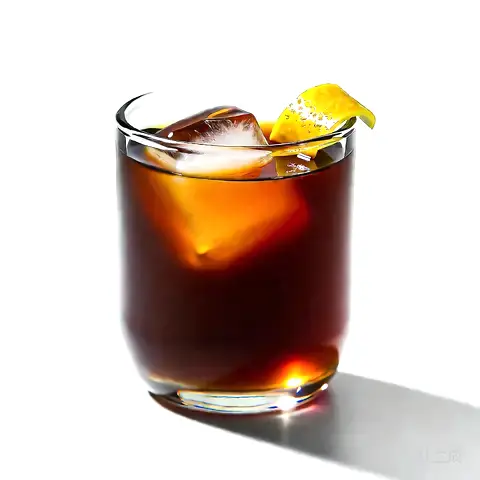
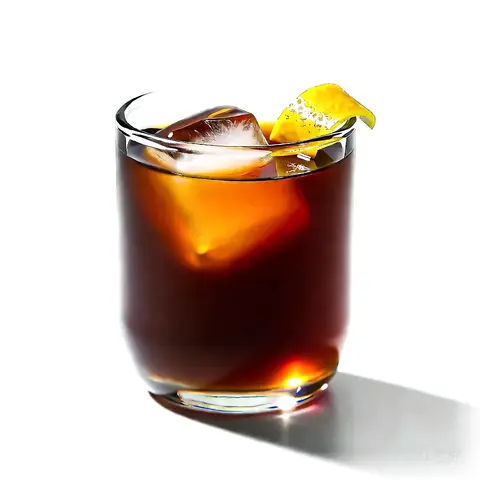
fix: blend the plinth crossfade, fade photograph rims, and tighten the UI
- The home plinth and the waiting screen multiplied the photograph inside a
  fading layer, so every crossfade showed the drink on a white square. The
  layer that carries the opacity now carries the blend.
- Photographs whose shadow or reflection ran off the picture ended in a hard
  line on the field. The rim is faded to white when an image is stored, and
  the three seed pictures that had it are repaired.
- The six moods sit in one row on desktop, so the first question fits a screen.
- Chinese titles break at punctuation and get the line height they need.
- The selected mood chip keeps a visible swatch; the reason and tools column
  stays in view beside a long recipe.

diff --git a/lib/image-levels.ts b/lib/image-levels.ts
@@ -1,11 +1,50 @@
 import sharp from "sharp";
 
+/** How much of each side is faded out, as a share of that side. */
+const EDGE = 0.06;
+
 /**
- * Lifts near-white to white. Drinks are shot on white and laid on coloured
- * fields with `mix-blend-mode: multiply`, where any grey left in the backdrop
- * shows as a band. Generated backdrops land around #e0-#f0; a gain of 1.12
- * clips those to white and barely moves the colours of the drink.
+ * A white frame, opaque at the rim and clear a little way in. A cast shadow or
+ * a reflection that runs off the photograph would otherwise end in a straight
+ * line where the picture stops, visible once it is laid on a coloured field.
  */
-export function whitenBackground(source: Buffer): Promise<Buffer> {
-  return sharp(source).linear(1.12, 0).png().toBuffer();
+function edgeFade(width: number, height: number): Buffer {
+  const side = (id: string, x1: number, y1: number, x2: number, y2: number, rect: string) =>
+    `<linearGradient id="${id}" x1="${x1}" y1="${y1}" x2="${x2}" y2="${y2}">` +
+    `<stop offset="0" stop-color="#fff"/><stop offset="1" stop-color="#fff" stop-opacity="0"/></linearGradient>` +
+    `<rect ${rect} fill="url(#${id})"/>`;
+  const w = Math.round(width * EDGE);
+  const h = Math.round(height * EDGE);
+
+  return Buffer.from(
+    `<svg xmlns="http://www.w3.org/2000/svg" width="${width}" height="${height}">` +
+      side("l", 0, 0, 1, 0, `x="0" y="0" width="${w}" height="${height}"`) +
+      side("r", 1, 0, 0, 0, `x="${width - w}" y="0" width="${w}" height="${height}"`) +
+      side("t", 0, 0, 0, 1, `x="0" y="0" width="${width}" height="${h}"`) +
+      side("b", 0, 1, 0, 0, `x="0" y="${height - h}" width="${width}" height="${h}"`) +
+      `</svg>`,
+  );
+}
+
+/** Fades the rim of a photograph to white. Exported for repairing pictures that are already stored. */
+export async function fadeEdges(source: Buffer): Promise<Buffer> {
+  const { width, height } = await sharp(source).metadata();
+  if (!width || !height) return source;
+  return sharp(source)
+    .flatten({ background: "#ffffff" })
+    .composite([{ input: edgeFade(width, height) }])
+    .png()
+    .toBuffer();
+}
+
+/**
+ * Makes a studio shot sit cleanly on a coloured field under
+ * `mix-blend-mode: multiply`, where anything short of white shows.
+ *
+ * Lifts near-white to white: generated backdrops land around #e0-#f0, and a
+ * gain of 1.12 clips those while barely moving the colours of the drink. Then
+ * fades the rim, for what the gain cannot reach.
+ */
+export async function whitenBackground(source: Buffer): Promise<Buffer> {
+  return fadeEdges(await sharp(source).linear(1.12, 0).png().toBuffer());
 }

diff --git a/components/Questionnaire.tsx b/components/Questionnaire.tsx
@@ -212,7 +212,7 @@ function QuestionnaireForm({ locale, dict, moodImages, initial }: Props & { init
           >
             {current === "mood" && (
               <Question title={t.mood.title} hint={t.mood.hint}>
-                <div className="grid grid-cols-2 gap-2 lg:grid-cols-3">
+                <div className="grid grid-cols-2 gap-2 lg:grid-cols-6">
                   {MOODS.map((mood, index) => (
                     <label
                       key={mood}
@@ -228,12 +228,12 @@ function QuestionnaireForm({ locale, dict, moodImages, initial }: Props & { init
                         onChange={() => update({ mood })}
                       />
                       <span
-                        className="relative block aspect-[5/4] overflow-hidden transition-transform duration-500 ease-out group-hover:scale-[0.98] group-has-checked:scale-[0.96]"
+                        className="relative block aspect-[5/4] overflow-hidden lg:aspect-[3/4] transition-transform duration-500 ease-out group-hover:scale-[0.98] group-has-checked:scale-[0.96]"
                         style={{ backgroundColor: MOOD_COLORS[mood] }}
                       >
                         {moodImages[mood]?.[0] && (
                           <span className="absolute inset-[10%]">
-                            <Image src={moodImages[mood][0]} alt="" fill sizes="(min-width: 1024px) 30vw, 50vw" className="specimen" />
+                            <Image src={moodImages[mood][0]} alt="" fill sizes="(min-width: 1024px) 16vw, 50vw" className="specimen" />
                           </span>
                         )}
                       </span>
@@ -415,7 +415,7 @@ function Question({ title, hint, children }: { title: string; hint: string; chil
       <h1
         id="question-title"
         tabIndex={-1}
-        className="enter text-[clamp(2.5rem,1rem+5vw,6rem)] leading-[0.92] tracking-[-0.05em] focus:outline-none"
+        className="title enter focus:outline-none"
       >
         {title}
       </h1>
@@ -501,7 +501,7 @@ function Shaking({ dict, images }: { dict: Labels["questions"]["shaking"]; image
         {images.map((src, index) => (
           <div
             key={src}
-            className="absolute inset-[6%] transition-opacity duration-1000 ease-in-out"
+            className="absolute inset-[6%] mix-blend-multiply transition-opacity duration-1000 ease-in-out"
             style={{ opacity: index === tick % images.length ? 1 : 0 }}
           >
             <Image src={src} alt="" fill sizes="45vw" className="specimen" />

diff --git a/components/MoodPlinth.tsx b/components/MoodPlinth.tsx
@@ -81,7 +81,11 @@ export function MoodPlinth({
                   className="flex min-h-12 items-center gap-3 bg-surface px-4 transition-[background-color,transform] duration-300 ease-out hover:-translate-y-0.5 active:scale-[0.97] aria-pressed:text-ink"
                   style={selected ? { backgroundColor: MOOD_COLORS[code] } : undefined}
                 >
-                  <span aria-hidden className="size-3.5" style={{ backgroundColor: MOOD_COLORS[code] }} />
+                  <span
+                    aria-hidden
+                    className="size-3.5 transition-colors duration-300"
+                    style={{ backgroundColor: selected ? "var(--color-ink)" : MOOD_COLORS[code] }}
+                  />
                   {dict.options.moods[code].label}
                 </button>
               );
@@ -107,7 +111,9 @@ export function MoodPlinth({
               href={localizePath(`/cocktail/${drink.slug}`, locale)}
               tabIndex={drink === active ? 0 : -1}
               aria-hidden={drink !== active}
-              className="absolute inset-[8%] transition-opacity duration-[1600ms] ease-in-out"
+              // Blended here, where the opacity is: a fading layer is composited on its own,
+              // and a photograph multiplied only inside it would cross the field as a white square.
+              className="absolute inset-[8%] mix-blend-multiply transition-opacity duration-[1600ms] ease-in-out"
               style={{ opacity: drink === active ? 1 : 0, pointerEvents: drink === active ? "auto" : "none" }}
             >
               <Image

diff --git a/tests/lib/image-levels.test.ts b/tests/lib/image-levels.test.ts
@@ -1,0 +1,20 @@
+import assert from "node:assert/strict";
+import { describe, it } from "node:test";
+import sharp from "sharp";
+import { fadeEdges } from "@/lib/image-levels";
+
+describe("fadeEdges", () => {
+  it("fades the rim to white and leaves the middle alone", async () => {
+    const grey = await sharp({ create: { width: 200, height: 200, channels: 3, background: "#808080" } })
+      .png()
+      .toBuffer();
+    const { data, info } = await sharp(await fadeEdges(grey)).removeAlpha().raw().toBuffer({ resolveWithObject: true });
+    const red = (x: number, y: number) => data[(y * info.width + x) * info.channels];
+
+    assert.ok(red(0, 100) > 245, "left edge is white");
+    assert.ok(red(199, 100) > 245, "right edge is white");
+    assert.ok(red(100, 0) > 245, "top edge is white");
+    assert.ok(red(100, 199) > 245, "bottom edge is white");
+    assert.equal(red(100, 100), 0x80, "the middle keeps its colour");
+  });
+});

diff --git a/app/globals.css b/app/globals.css
@@ -64,6 +64,9 @@
   :lang(zh-CN) h3 {
     letter-spacing: -0.02em;
     line-height: 1.08;
+    /* Chinese has no spaces, so a balanced headline would split a word; break at punctuation instead. */
+    word-break: keep-all;
+    overflow-wrap: anywhere;
   }
 
   p {
@@ -126,6 +129,17 @@
   .btn-quiet:hover:not(:disabled) {
     background: var(--color-ink);
     color: var(--color-bone);
+  }
+
+  /* The page title of a question or a dead end: tight in Latin, looser in Chinese, whose glyphs fill the line. */
+  .title {
+    font-size: clamp(2.5rem, 1rem + 5vw, 6rem);
+    line-height: 0.92;
+    letter-spacing: -0.05em;
+  }
+  :lang(zh-CN) .title {
+    line-height: 1.1;
+    letter-spacing: -0.02em;
   }
 
   /* First stop for keyboard users; out of sight until it has focus. */

diff --git a/components/EmptyState.tsx b/components/EmptyState.tsx
@@ -32,7 +32,7 @@ export function EmptyState({
     <div className="frame py-12 lg:py-16">
       <div className="grid gap-10 lg:grid-cols-12 lg:items-center">
         <div className="lg:col-span-6">
-          <h1 className="enter max-w-[14ch] text-[clamp(2.5rem,1rem+5vw,6rem)] leading-[0.92] tracking-[-0.05em]">{title}</h1>
+          <h1 className="title enter max-w-[14ch]">{title}</h1>
           {body && <p className="enter mt-6 max-w-[40ch] text-lead [--i:1]">{body}</p>}
           <div className="enter mt-10 flex flex-wrap gap-2 [--i:2]">{children}</div>
         </div>

diff --git a/components/DrinkSheet.tsx b/components/DrinkSheet.tsx
@@ -76,7 +76,7 @@ export function DrinkSheet({
       </section>
 
       <div className="frame mt-[clamp(80px,12vh,160px)] grid gap-x-8 gap-y-20 lg:grid-cols-12">
-        <section className="order-2 lg:order-none lg:col-span-5" aria-labelledby="why-heading">
+        <section className="order-2 lg:sticky lg:top-10 lg:order-none lg:col-span-5 lg:self-start" aria-labelledby="why-heading">
           <h2 id="why-heading" className="reveal text-lead text-muted">
             {t.why}
           </h2>

diff --git a/DESIGN.md b/DESIGN.md
@@ -26,11 +26,11 @@ Type: Hanken Grotesk (Latin) with Noto Sans SC (Chinese), weights 400 and 500 on
 - Running text is full ink, 16px or more. Grey is for notes, and only on bone: on a mood field `muted` falls below 4.5:1, so notes there are `text-ink/70`.
 - Headlines two lines at most. Statements set large stay at three lines or fewer.
 - Every page closes with the block wordmark (`BlockMark` in `SiteChrome.tsx`).
-- Motion: the slow crossfade on the home plinth is the one signature move; sections enter once as they scroll in (`Reveals.tsx`); everything respects `prefers-reduced-motion`, and nothing is hidden without script.
+- Motion: the slow crossfade on the home plinth is the one signature move (a fading layer carries `mix-blend-multiply` itself, or its photograph crosses the field as a white square); sections enter once as they scroll in (`Reveals.tsx`); everything respects `prefers-reduced-motion`, and nothing is hidden without script.
 
 ## Pictures
 
-- Generated drinks are shot by `buildImagePrompt` in `lib/ai/prompts.ts` as studio specimens on pure white, then lifted to clean white by `lib/image-levels.ts` so no grey band shows on the field.
+- Generated drinks are shot by `buildImagePrompt` in `lib/ai/prompts.ts` as studio specimens on pure white, then prepared by `lib/image-levels.ts`: near-white is lifted to white so no grey band shows on the field, and the rim is faded so a shadow running off the picture does not end in a straight line.
 - `public/og.png` is the card for shared links without a drink of their own; `node scripts/build-og.mjs` redraws it.
 - Seed drinks and the two stage pictures live in `public/drinks/` and `public/stages/`; `pnpm seeds:build` regenerates them.
 - The provider stamps a small "AI 生成" mark on every image. It is left in place; the footer also says the photographs are AI-generated.
